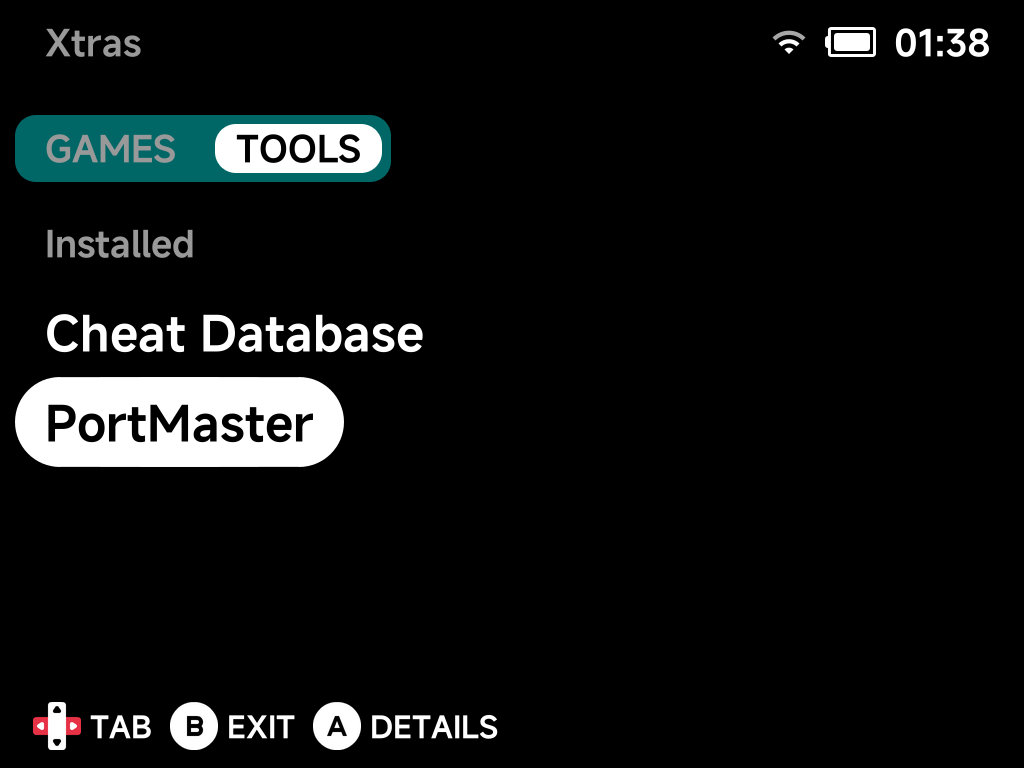
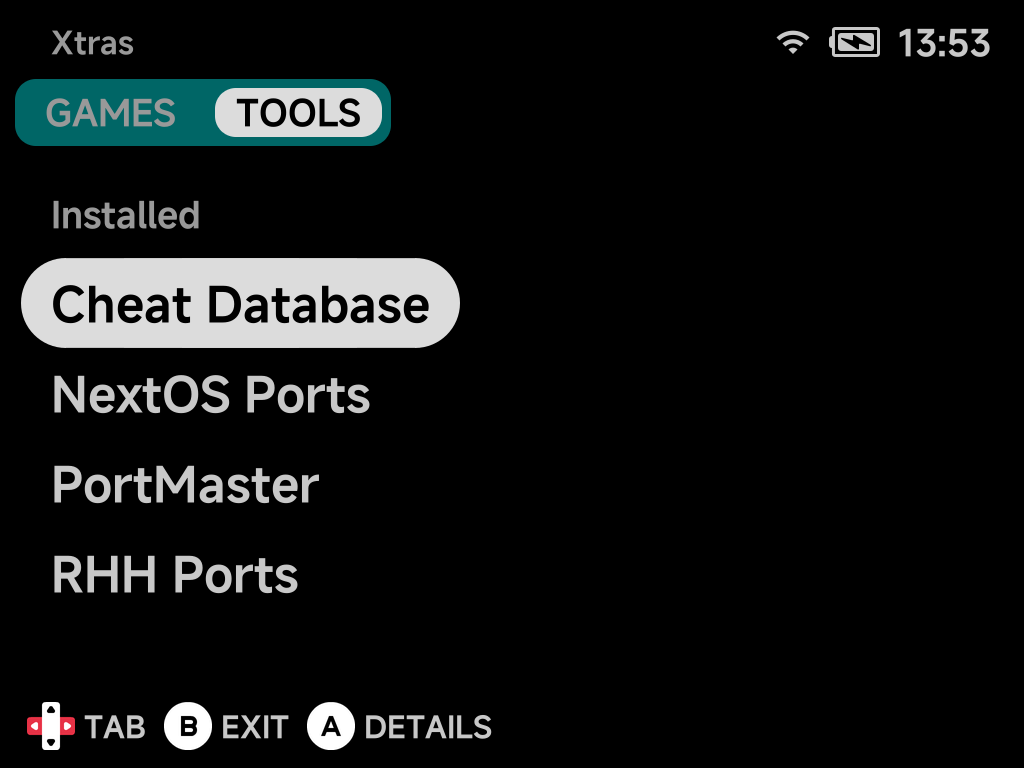
docs(xtras): mention the PortMaster community catalogs and refresh the Xtras captures

diff --git a/docs/handheld/apps/xtras.md b/docs/handheld/apps/xtras.md
@@ -10,8 +10,10 @@ device.
 2. Press `A` on an entry for its details.
 3. Install or update it from there.
 
-The **TOOLS** tab holds installable tools and emulators. Already-installed
-entries are grouped under an *Installed* header:
+The **TOOLS** tab holds installable tools and emulators, including
+PortMaster and its two [community catalogs](portmaster.md#community-catalogs),
+**NextOS Ports** and **RHH Ports**. Already-installed entries are grouped under
+an *Installed* header:
 
 ![Xtras TOOLS tab](../../assets/screenshots/xtras-tools.png)
 
